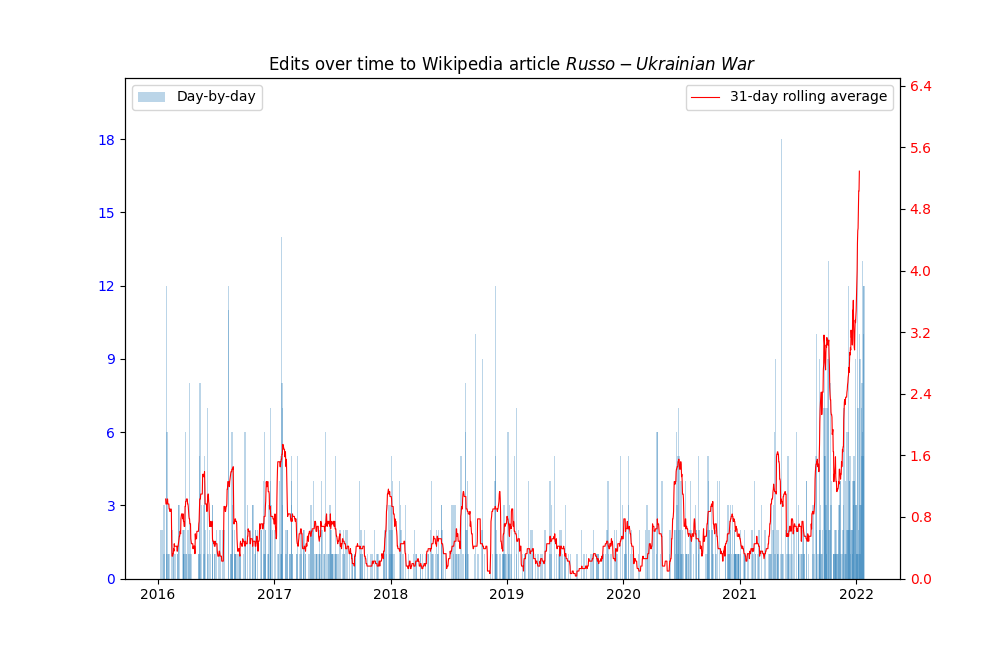
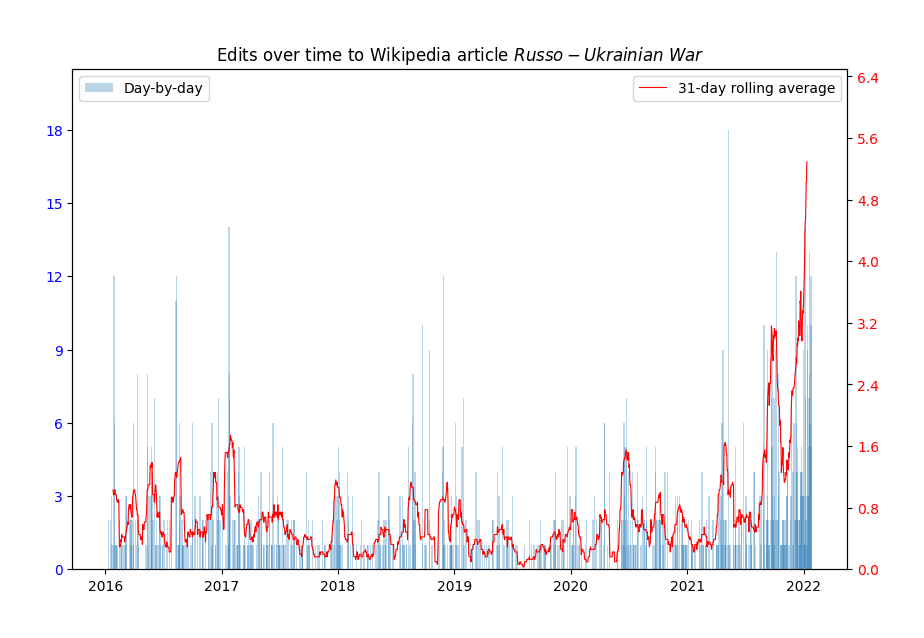
specified margins

Changed region(s): [[0.0606, 0.0596, 0.9697, 0.9232]]

diff --git a/main.py b/main.py
@@ -66,5 +66,5 @@ for tl in ax2.get_yticklabels():
 ax1.legend(loc='upper left')
 ax2.legend(loc='upper right')
 plt.title(label='Edits over time to Wikipedia article $\it{Russo-Ukrainian}$ $\it{War}$')
-fig.savefig('figure.png')
+fig.savefig('figure.png', bbox_inches='tight', pad_inches=0.45)
 plt.show()
